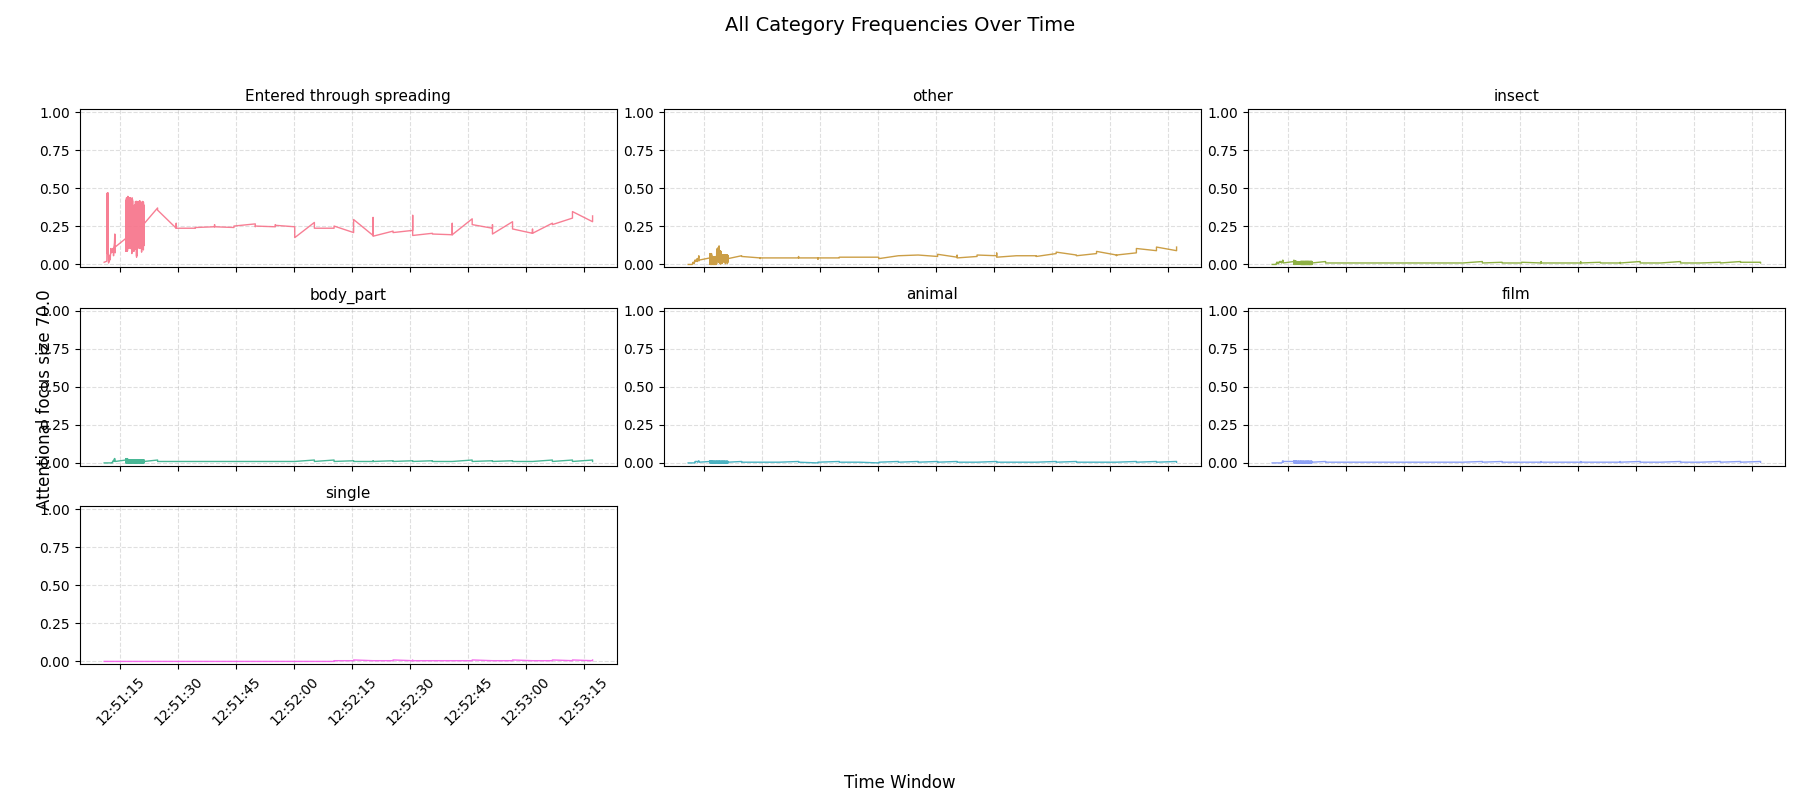
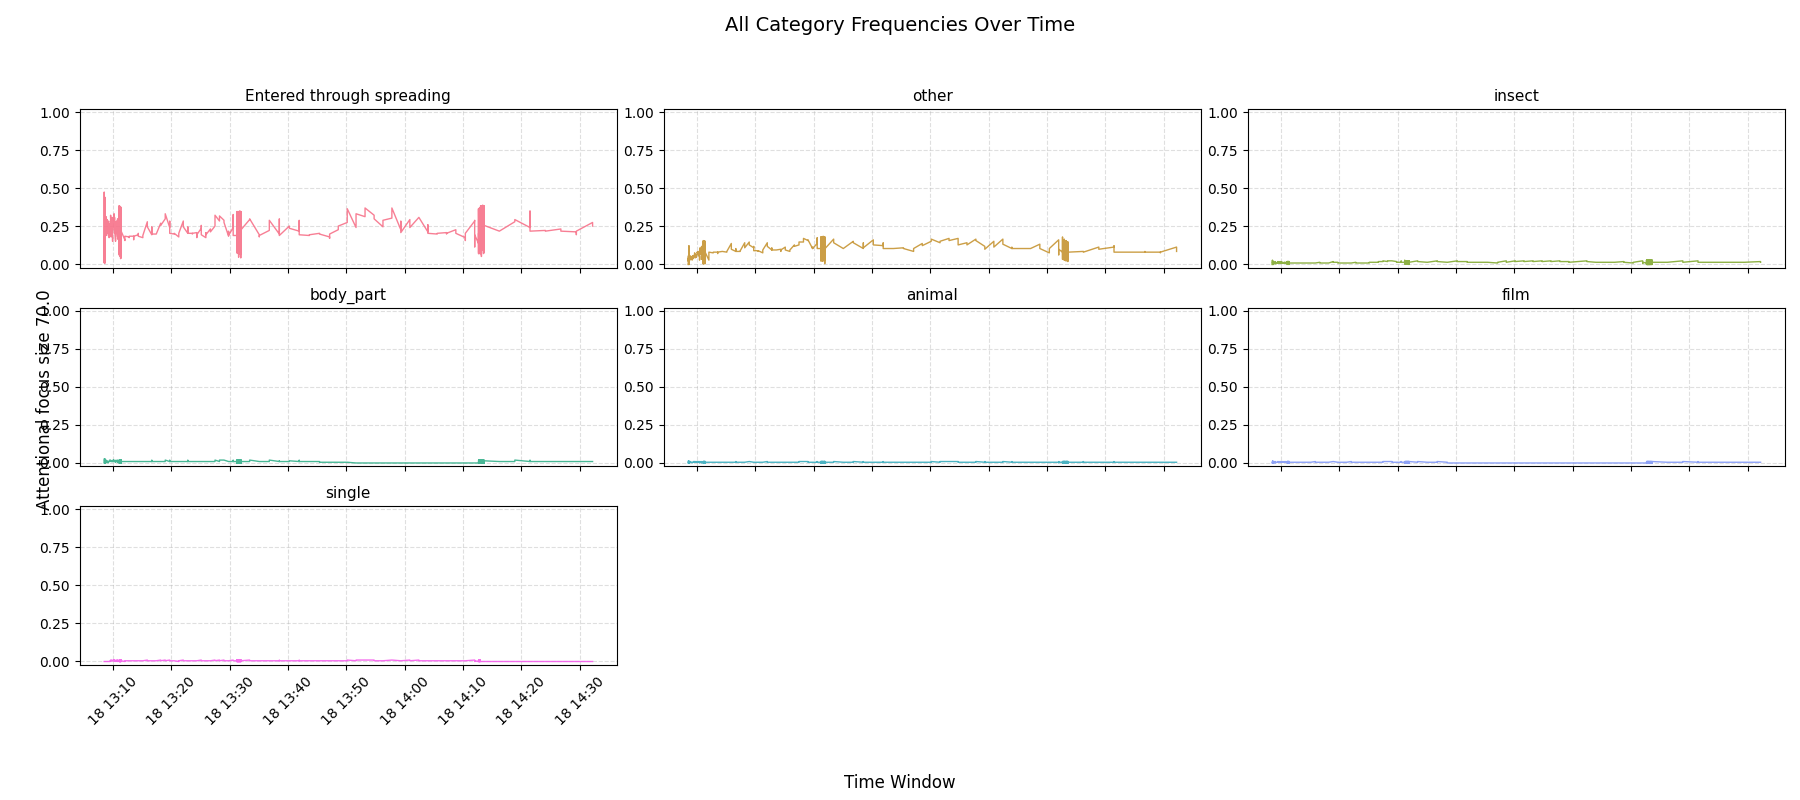
final output

diff --git a/attention-bank/synapse/test/test_topology_metrics.py b/attention-bank/synapse/test/test_topology_metrics.py
@@ -80,49 +80,49 @@ class TopologyMetricsTest(unittest.TestCase):
         self.assertEqual(vertices, ["A", "B"])
         self.assertEqual(edges, [("A", "B")])
 
-    # def test_empty_graph_has_no_components_or_cycles(self):
-    #     self.assertEqual(
-    #         topology_metrics([]),
-    #         {"triangles": 0, "betti0": 0, "betti1": 0, "betti2": 0},
-    #     )
+    def test_empty_graph_has_no_components_or_cycles(self):
+        self.assertEqual(
+            topology_metrics([]),
+            {"triangles": 0, "betti0": 0, "betti1": 0, "betti2": 0},
+        )
 
-    # def test_triangle_plus_disconnected_edge(self):
-    #     metrics = topology_metrics(
-    #         [
-    #             ["ASYMMETRIC_HEBBIAN_LINK", "A", "B"],
-    #             ["ASYMMETRIC_HEBBIAN_LINK", "B", "C"],
-    #             ["ASYMMETRIC_HEBBIAN_LINK", "C", "A"],
-    #             ["ASYMMETRIC_HEBBIAN_LINK", "B", "A"],
-    #             ["ASYMMETRIC_HEBBIAN_LINK", "D", "E"],
-    #         ]
-    #     )
+    def test_triangle_plus_disconnected_edge(self):
+        metrics = topology_metrics(
+            [
+                ["ASYMMETRIC_HEBBIAN_LINK", "A", "B"],
+                ["ASYMMETRIC_HEBBIAN_LINK", "B", "C"],
+                ["ASYMMETRIC_HEBBIAN_LINK", "C", "A"],
+                ["ASYMMETRIC_HEBBIAN_LINK", "B", "A"],
+                ["ASYMMETRIC_HEBBIAN_LINK", "D", "E"],
+            ]
+        )
 
-    #     self.assertEqual(metrics, {"triangles": 1, "betti0": 2, "betti1": 0, "betti2": 0})
+        self.assertEqual(metrics, {"triangles": 1, "betti0": 2, "betti1": 0, "betti2": 0})
 
-    # def test_square_cycle_has_betti_one_without_triangle(self):
-    #     metrics = topology_metrics(
-    #         [
-    #             ("A", "B"),
-    #             ("B", "C"),
-    #             ("C", "D"),
-    #             ("D", "A"),
-    #         ]
-    #     )
+    def test_square_cycle_has_betti_one_without_triangle(self):
+        metrics = topology_metrics(
+            [
+                ("A", "B"),
+                ("B", "C"),
+                ("C", "D"),
+                ("D", "A"),
+            ]
+        )
 
-    #     self.assertEqual(metrics, {"triangles": 0, "betti0": 1, "betti1": 1, "betti2": 0})
+        self.assertEqual(metrics, {"triangles": 0, "betti0": 1, "betti1": 1, "betti2": 0})
 
-    # def test_hyperon_like_atoms_are_supported(self):
-    #     link_type = FakeAtom(name="ASYMMETRIC_HEBBIAN_LINK")
-    #     links = [
-    #         FakeAtom(children=[link_type, FakeAtom(name="A"), FakeAtom(name="B")]),
-    #         FakeAtom(children=[link_type, FakeAtom(name="B"), FakeAtom(name="C")]),
-    #         FakeAtom(children=[link_type, FakeAtom(name="C"), FakeAtom(name="A")]),
-    #     ]
+    def test_hyperon_like_atoms_are_supported(self):
+        link_type = FakeAtom(name="ASYMMETRIC_HEBBIAN_LINK")
+        links = [
+            FakeAtom(children=[link_type, FakeAtom(name="A"), FakeAtom(name="B")]),
+            FakeAtom(children=[link_type, FakeAtom(name="B"), FakeAtom(name="C")]),
+            FakeAtom(children=[link_type, FakeAtom(name="C"), FakeAtom(name="A")]),
+        ]
 
-    #     self.assertEqual(
-    #         topology_metrics(links),
-    #         {"triangles": 1, "betti0": 1, "betti1": 0, "betti2": 0},
-    #     )
+        self.assertEqual(
+            topology_metrics(links),
+            {"triangles": 1, "betti0": 1, "betti1": 0, "betti2": 0},
+        )
 
     def test_octahedron_surface_has_one_betti_two_void(self):
         metrics = topology_metrics(
@@ -144,32 +144,32 @@ class TopologyMetricsTest(unittest.TestCase):
 
         self.assertEqual(metrics, {"triangles": 8, "betti0": 1, "betti1": 0, "betti2": 1})
 
-    # def test_complete_four_clique_fills_the_betti_two_void(self):
-    #     metrics = topology_metrics(
-    #         [
-    #             ("A", "B"),
-    #             ("A", "C"),
-    #             ("A", "D"),
-    #             ("B", "C"),
-    #             ("B", "D"),
-    #             ("C", "D"),
-    #         ]
-    #     )
+    def test_complete_four_clique_fills_the_betti_two_void(self):
+        metrics = topology_metrics(
+            [
+                ("A", "B"),
+                ("A", "C"),
+                ("A", "D"),
+                ("B", "C"),
+                ("B", "D"),
+                ("C", "D"),
+            ]
+        )
 
-    #     self.assertEqual(metrics, {"triangles": 4, "betti0": 1, "betti1": 0, "betti2": 0})
+        self.assertEqual(metrics, {"triangles": 4, "betti0": 1, "betti1": 0, "betti2": 0})
 
-    # def test_metric_values_returns_metta_friendly_order(self):
-    #     self.assertEqual(
-    #         topology_metric_values(
-    #             [
-    #                 ["ASYMMETRIC_HEBBIAN_LINK", "A", "B"],
-    #                 ["ASYMMETRIC_HEBBIAN_LINK", "B", "A"],
-    #                 ["ASYMMETRIC_HEBBIAN_LINK", "B", "C"],
-    #                 ["ASYMMETRIC_HEBBIAN_LINK", "C", "A"],
-    #             ]
-    #         ),
-    #         [1, 1, 0, 0],
-    #     )
+    def test_metric_values_returns_metta_friendly_order(self):
+        self.assertEqual(
+            topology_metric_values(
+                [
+                    ["ASYMMETRIC_HEBBIAN_LINK", "A", "B"],
+                    ["ASYMMETRIC_HEBBIAN_LINK", "B", "A"],
+                    ["ASYMMETRIC_HEBBIAN_LINK", "B", "C"],
+                    ["ASYMMETRIC_HEBBIAN_LINK", "C", "A"],
+                ]
+            ),
+            [1, 1, 0, 0],
+        )
 
 
 if __name__ == "__main__":